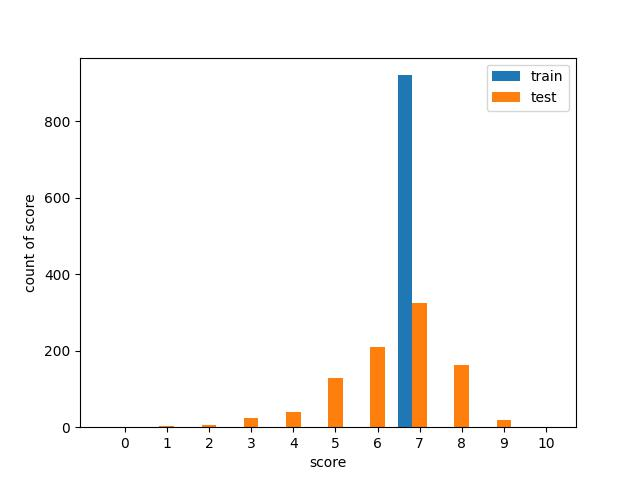
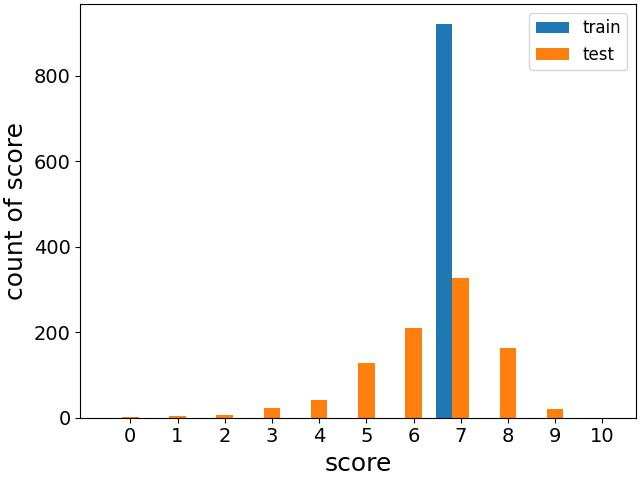
Remove accuracy from reports

diff --git a/svm.py b/svm.py
@@ -3,8 +3,19 @@ import matplotlib.pyplot as plt
 from lib.loader import get_data
 from lib.utils.common import calculate_distribution
 from sklearn.model_selection import KFold
-from sklearn.metrics import accuracy_score, mean_absolute_error
+from sklearn.metrics import mean_absolute_error
 from sklearn.svm import LinearSVC
+
+# Formatting
+
+plt.rc('font', size=14)
+plt.rc('axes', titlesize=12)
+plt.rc('axes', labelsize=18)
+plt.rc('xtick', labelsize=14)
+plt.rc('ytick', labelsize=14)
+plt.rc('legend', fontsize=12)
+plt.rcParams['figure.constrained_layout.use'] = True
+
 
 x, y, names = get_data()
 kFold = KFold()
@@ -50,12 +61,12 @@ def run_model(c, draw_plot=False):
         plt.savefig('images/svm_c=%g.jpg' % c)
         plt.clf()
 
-    print(mean_average_error_train, mean_average_error_test)
+    print(c, mean_average_error_train, mean_average_error_test)
     return mean_average_error_train, mean_average_error_test
 
 
 def main():
-    c_range = [0.001, 0.01, 0.1, 1, 10, 100]
+    c_range = [0.001, 0.01, 0.03, 0.05, 0.08, 0.1, 0.3, 0.5, 0.8, 1]
 
     mean_average_error_train = np.zeros_like(c_range)
     mean_average_error_test = np.zeros_like(c_range)
